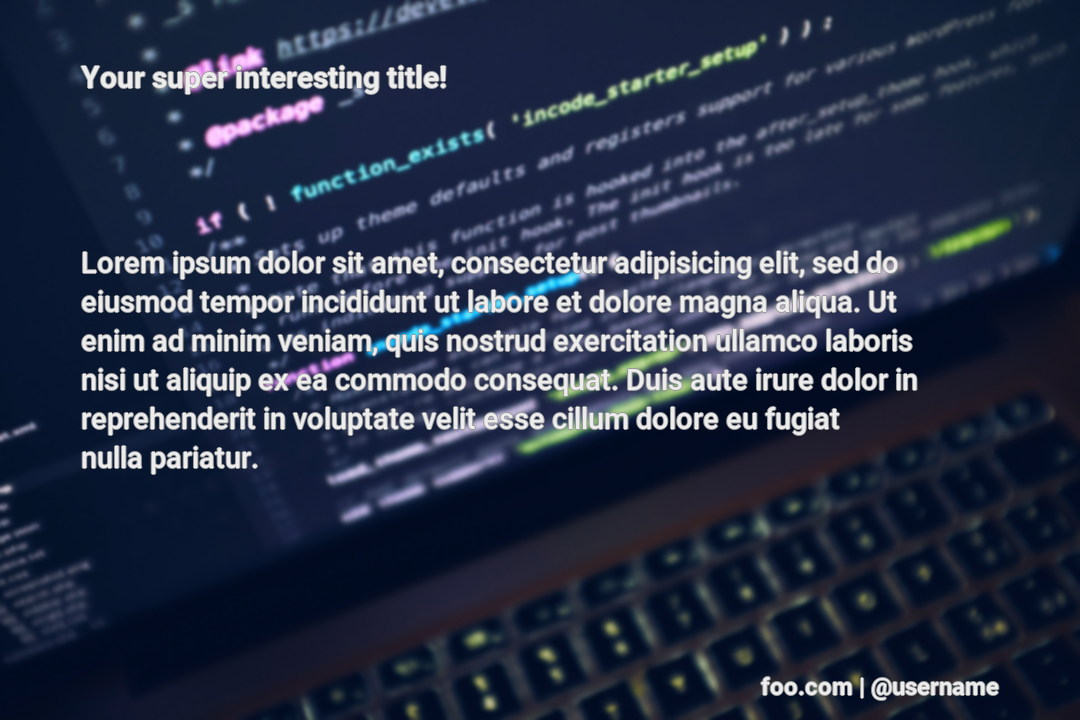
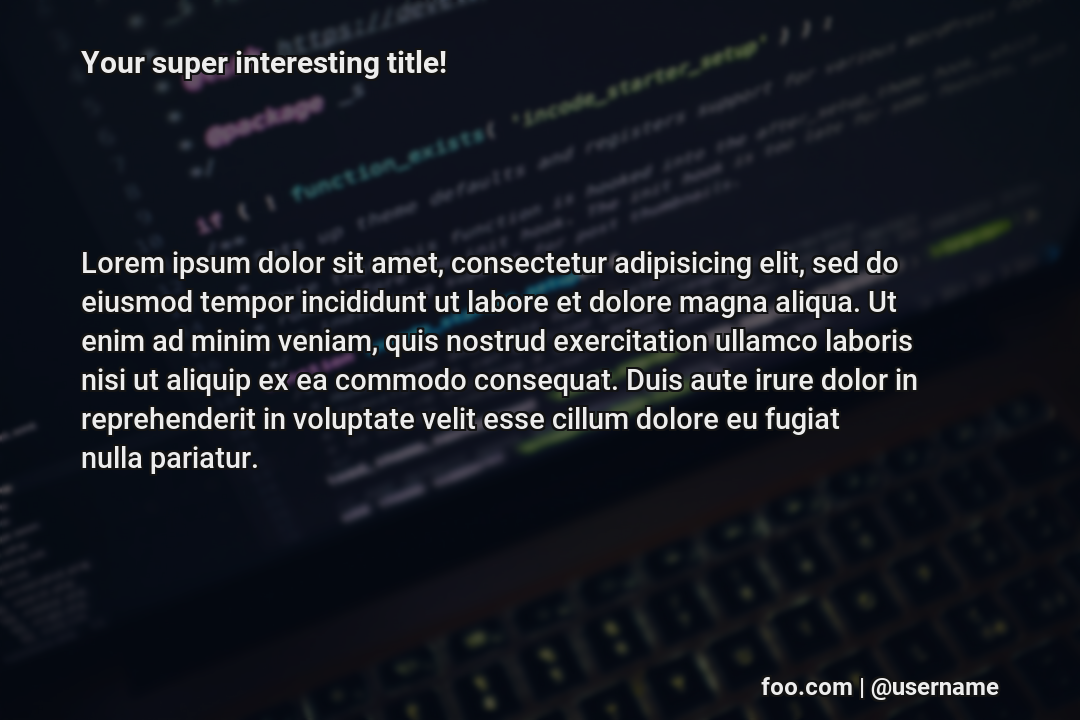
Updated legacy examples to match new API

diff --git a/examples/draw_on_image_example/script.py b/examples/draw_on_image_example/script.py
@@ -1,41 +1,44 @@
-from nider.models import Content
+from nider.core import Font
+from nider.core import Outline
+
 from nider.models import Header
-from nider.models import Linkback
 from nider.models import Paragraph
+from nider.models import Linkback
+from nider.models import Content
 from nider.models import Image
 
+from PIL import ImageEnhance
+from PIL import ImageFilter
+
+
 # TODO: change this fontpath to the fontpath on your machine
-roboto = '/home/ovd/.local/share/fonts/Roboto/'
+roboto_font_folder = '/home/ovd/.local/share/fonts/Roboto/'
+
+outline = Outline(2, '#121212')
 
 header = Header(text='Your super interesting title!',
-                fontfullpath=roboto + 'Roboto-Bold.ttf',
-                fontsize=30,
+                font=Font(roboto_font_folder + 'Roboto-Bold.ttf', 30),
                 text_width=40,
                 align='left',
                 color='#ededed',
-                drop_shadow=True,
-                shadowcolor='#999'
+                outline=outline
                 )
 
 para = Paragraph(text='Lorem ipsum dolor sit amet, consectetur adipisicing elit, sed do eiusmod tempor incididunt ut labore et dolore magna aliqua. Ut enim ad minim veniam, quis nostrud exercitation ullamco laboris nisi ut aliquip ex ea commodo consequat. Duis aute irure dolor in reprehenderit in voluptate velit esse cillum dolore eu fugiat nulla pariatur.',
-                 fontfullpath=roboto + 'Roboto-Medium.ttf',
-                 fontsize=29,
+                 font=Font(roboto_font_folder + 'Roboto-Medium.ttf', 29),
                  text_width=65,
                  align='left',
                  color='#ededed',
-                 drop_shadow=True,
-                 shadowcolor='#999'
+                 outline=outline
                  )
 
 linkback = Linkback(text='foo.com | @username',
-                    fontfullpath=roboto + 'Roboto-Bold.ttf',
-                    fontsize=24,
+                    font=Font(roboto_font_folder + 'Roboto-Bold.ttf', 24),
                     color='#ededed',
-                    drop_shadow=True,
-                    shadowcolor='#999'
+                    outline=outline
                     )
 
-content = Content(para, header=header, linkback=linkback, padding=60)
+content = Content(para, header, linkback)
 
 img = Image(content,
             fullpath='result.png',
@@ -44,4 +47,8 @@ img = Image(content,
             )
 
 # TODO: change this image path to the image path on your machine
-img.draw_on_image('bg.jpg')
+img.draw_on_image('bg.jpg',
+                  image_enhancements=((ImageEnhance.Contrast, 0.75),
+                                      (ImageEnhance.Brightness, 0.5)),
+                  image_filters=((ImageFilter.BLUR),)
+                  )

diff --git a/examples/draw_on_texture_example/script.py b/examples/draw_on_texture_example/script.py
@@ -1,38 +1,41 @@
-from nider.models import Content
+from nider.core import Font
+from nider.core import Outline
+
 from nider.models import Header
-from nider.models import Linkback
 from nider.models import Paragraph
+from nider.models import Linkback
+from nider.models import Content
 from nider.models import TwitterPost
 
+
 # TODO: change this fontpath to the fontpath on your machine
-roboto = '/home/ovd/.local/share/fonts/Roboto/'
+roboto_font_folder = '/home/ovd/.local/share/fonts/Roboto/'
+
+outline = Outline(2, '#121212')
 
 header = Header(text='Your super interesting title!',
-                fontfullpath=roboto + 'Roboto-Bold.ttf',
-                fontsize=30,
+                font=Font(roboto_font_folder + 'Roboto-Bold.ttf', 30),
                 text_width=40,
                 align='left',
                 color='#ededed'
                 )
 
 para = Paragraph(text='Lorem ipsum dolor sit amet, consectetur adipisicing elit, sed do eiusmod tempor incididunt ut labore et dolore magna aliqua. Ut enim ad minim veniam, quis nostrud exercitation ullamco laboris nisi ut aliquip ex ea commodo consequat. Duis aute irure dolor in reprehenderit in voluptate velit esse cillum dolore eu fugiat nulla pariatur.',
-                 fontfullpath=roboto + 'Roboto-Medium.ttf',
-                 fontsize=29,
+                 font=Font(roboto_font_folder + 'Roboto-Medium.ttf', 29),
                  text_width=65,
                  align='left',
                  color='#ededed'
                  )
 
 linkback = Linkback(text='foo.com | @username',
-                    fontfullpath=roboto + 'Roboto-Bold.ttf',
-                    fontsize=24,
+                    font=Font(roboto_font_folder + 'Roboto-Bold.ttf', 24),
                     color='#ededed'
                     )
 
-content = Content(para, header=header, linkback=linkback, padding=60)
+content = Content(para, header, linkback)
 
 img = TwitterPost(content,
-                  fullpath='result.png',
+                  fullpath='result.png'
                   )
 
 # TODO: change this texture path to the texture path on your machine

diff --git a/examples/draw_on_bg_example/script.py b/examples/draw_on_bg_example/script.py
@@ -1,25 +1,26 @@
-from nider.models import Content
+from nider.core import Font
+
 from nider.models import Paragraph
+from nider.models import Content
 from nider.models import Image
 
-# TODO: change this fontpath to the fontpath on your machine
-roboto = '/home/ovd/.local/share/fonts/Roboto/'
 
+# TODO: change this fontpath to the fontpath on your machine
+roboto_font_folder = '/home/ovd/.local/share/fonts/Roboto/'
 
 para = Paragraph(text='Lorem ipsum dolor sit amet, consectetur adipisicing elit, sed do eiusmod tempor incididunt ut labore et dolore magna aliqua. Ut enim ad minim veniam, quis nostrud exercitation ullamco laboris nisi ut aliquip ex ea commodo consequat. Duis aute irure dolor in reprehenderit in voluptate velit esse cillum dolore eu fugiat nulla pariatur.',
-                 fontfullpath=roboto + 'Roboto-Medium.ttf',
-                 fontsize=20,
+                 font=Font(roboto_font_folder + 'Roboto-Medium.ttf', 20),
                  text_width=49,
                  align='center',
                  color='#121212'
                  )
 
-content = Content(para, padding=60)
+content = Content(para)
 
 img = Image(content,
             width=500,
             height=500,
-            fullpath='result.png',
+            fullpath='result.png'
             )
 
 img.draw_on_bg('#efefef')
